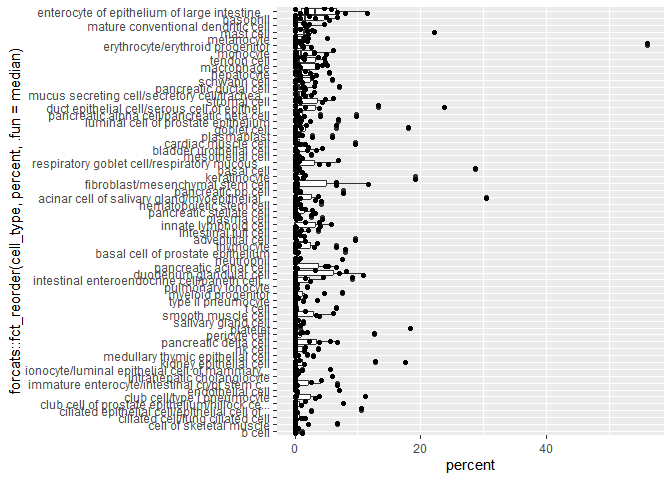
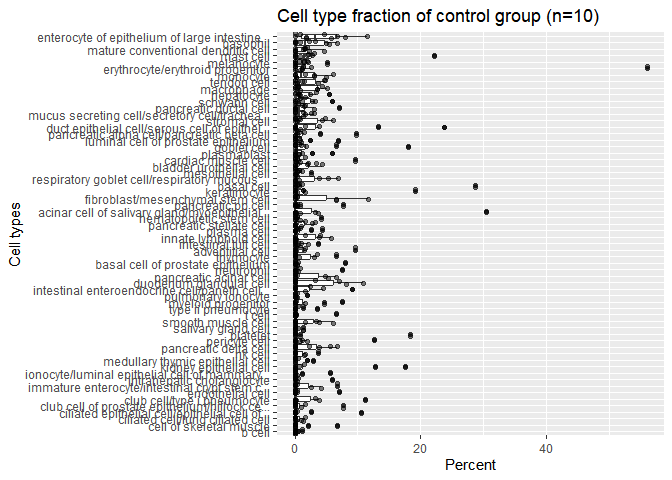
added some deconvolution stuff

diff --git a/notes/notes.md b/notes/notes.md
@@ -100,30 +100,70 @@ original pipeline which used `rsubread`.*
 
 ### Introduction
 
-Some people figured out how to extract cell-type data from RNA-seq data,
-and applied it to plasma cell-free transcriptome. This is done by
-referring to a whole body cell atlas called Tabula Sapiens. Disclaimer:
-I don’t really know anything about the math behind deconvolution and
-SVR.
+Cell-free RNA in plasma can represent a broad transcriptome of tissues
+around the body, however questions still remain about the role of the
+origin cell types of cfRNA transcripts, which can provide a lot of
+information into the pathogenesis of AD, maybe leading to a non-invasive
+way of studying AD progression.
 
-We are going to do the same thing to our data. It may or may not produce
-anything worthwhile, but let’s try anyway.
+To answer this question, Vorperian et al. used support vector regression
+to deconvolve cell types of origin from the plasma cell-free
+transcriptome. The deconvolution process is done by employing Tabula
+Sapiens, a multiple-donor whole-body cell atlas spanning 24 tissues and
+organs, to define a basis matrix whose gene set accurately and
+simultaneously resolved the distinct cell types in TSP.
 
-See reference
+They found that platelets, erythrocyte/erythroid progenitors and
+leukocytes comprised the majority of observed signal, as well as
+observing distinct transcriptional contributions from solid
+tissue-specific cell types from the intestine, liver, lungs, pancreas,
+heart, and kidney.
+
+We are going to do the same thing to our collected cfRNA data to see if
+there is anything interesting. Is there a difference between the cell
+type fractions of control and AD patients? Could these differences
+indicate any pathological process (e.g. inflammation)?
+
+See reference: Vorperian, S.K., Moufarrej, M.N., Tabula Sapiens
+Consortium. et al. Cell types of origin of the cell-free transcriptome.
+Nat Biotechnol 40, 855–861 (2022).
+<https://doi.org/10.1038/s41587-021-01188-9>
 
 ### Initial setup
 
-- Install anaconda:
-- Clone the github repository: sevahn/deconvolution
-- Create the conda environment:
+First you need to install anaconda if you haven’t done so already. If
+working with Windows, go to their website and download the installer. If
+working in WSL/Linux, go to this link and follow their instructions
+<https://conda.io/projects/conda/en/latest/user-guide/install/linux.html>
 
-The authors recommend CPM-normalized values
+Clone the github repository from the authors:
+(github.com/sevahn/deconvolution). The authors were very very nice
+people and made a tutorial on how to do this for common people like us.
+Bless them.
+
+Anyway, navigate to the `deconvolve_cfrna_tutorial` folder. Create the
+conda environment based on the yml file with something like
+`conda env create --file cfrna_deconv.yml`. It will download all the
+necessary packages like magic.
 
 ### Running the deconvolution scripts
 
-Navigate to the deconvolution tutorial folder
+First we need to prepare our cfRNA data. I have prepared a
+CPM-normalized count matrix of our data and placed it in the same
+folder.Why CPM? Because the Tabula Sapiens dataset that we are going to
+use to deconvolve uses CPM units.
 
-Edit the `sh_1.py` script file
+Don’t use log-transformed values for this (the authors say so very
+clearly and we should listen to them). Also made sure to format it so
+that **rows are genes** and **columns are samples**.
+
+Unzip the Tabula Sapiens basis matrix in the same directory that the
+authors have prepared for us. (Thanks!)
+
+Edit the `sh_1.py` script file to point to our dataset *In WSL/Linux,
+edit files from the command line by using `nano FILENAME`* Execute
+`sh_1.py` by typing `python sh_1.py`.It will spit out a .sh script file
+for every sample (We got 20 samples so we get 20 script files)
 
 Now, you can try to execute the resulting scripts, but Linux won’t let
 you do that yet. You need to set the files to be executable. This
@@ -131,11 +171,14 @@ command will set all .sh files in the folder to executable
 `chmod +x ./*.sh`
 
 We can finally run the scripts. You can execute them all at once by
-doing a for loop `for i in *.sh ; do ./$i ; done`
+doing a for loop `for i in *.sh ; do ./$i ; done` This took about 10
+minutes.
 
-Edit `merge2.py` similarly to point to the correct data files. Finally,
-run `merge2.py` to get the final fractions located in the fractions csv
-file.
+It will spit out a folder for each sample containing the data. Edit
+`merge2.py` similarly to point to the correct data files. This script
+will merge all the sample data into one convenient table. Finally, run
+`merge2.py` to get the final cell type fractions located in a fractions
+csv file.
 
 ### Preliminary deconvolution results
 
@@ -178,30 +221,88 @@ tidy_data<-VAN_fractions %>%
 ```
 
 To visualize the data, we will use possibly the greatest plotting
-package ever to be invented: ggplot2. We want to make some boxplots to
-see the full data distribution (I took a casual look at the data table
-and saw a lot of variance between samples, so I don’t want to just
-report the average).
+package ever to be invented, the swiss army knife of plotting:
+**ggplot2**. We want to make some boxplots to see the full data
+distribution . It would be tempting to make a pie chart, but I took a
+casual look at the data table and saw a lot of variance between samples,
+so reporting just the mean would be horribly misleading. We will
+separate our data into the two groups: control and AD
 
 ``` r
-ggplot(filter(tidy_data, group=="control"), aes(x=percent,y=forcats::fct_reorder(cell_type, percent, .fun = median)))+
-  geom_boxplot() + geom_jitter()+
-  scale_y_discrete(label=function(x) stringr::str_trunc(x, 46)) 
+control_plot1<-ggplot(filter(tidy_data, group=="control"), aes(x=percent,y=forcats::fct_reorder(cell_type, percent, .fun = median)))+
+  geom_boxplot() + geom_jitter(alpha=0.5)+
+  scale_y_discrete(label=function(x) stringr::str_trunc(x, 46))
+control_plot1 + labs(title="Cell type fraction of control group (n=10)",x="Percent",y="Cell types")
 ```
 
 ![](notes_files/figure-gfm/unnamed-chunk-4-1.png)<!-- -->
 
-So that is quite a mess. Let’s zoom in on the top cell types by median
-fraction.
+``` r
+ad_plot1<-ggplot(filter(tidy_data, group=="ad"), aes(x=percent,y=forcats::fct_reorder(cell_type, percent, .fun = median)))+
+  geom_boxplot() + geom_jitter(alpha=0.5)+
+  scale_y_discrete(label=function(x) stringr::str_trunc(x, 46)) 
+ad_plot1 + labs(title="Cell type fraction of AD group (n=10)",x="Percent",y="Cell types")
+```
 
-We can see that the data is extremely varied. A lot of zero datapoints.
+![](notes_files/figure-gfm/unnamed-chunk-4-2.png)<!-- -->
 
-Cool! Next step is probably to perform proper statistical analyses to
-determine if there is a statistically significant difference in
-composition between control vs. AD plasma. Also, Tabula Sapiens does not
-cover all cell types, most notably excluding brain cells. Human Protein
-Atlas (HPA) RNA consensus dataset. Or we can narrow it down using
-single-cell RNA sequencing datasets.
+That is quite a mess. Let’s make another plot where we zoom in on the
+top 15 cell types by median fraction in the cfRNA sample. *warning this
+code is pretty horrible right now, i will fix it later*
+
+``` r
+# Compute the median
+control_median <- tidy_data |>
+  filter(group=="control") |>
+  group_by(cell_type) |>
+  summarize(median_fraction=median(percent)) |>
+  arrange(median_fraction)
+
+ad_median <- tidy_data |>
+  filter(group=="ad") |>
+  group_by(cell_type) |>
+  summarize(median_fraction=median(percent)) |>
+  arrange(median_fraction)
+
+##horrifically janky code
+
+control_plot_topmed<-ggplot(filter(tidy_data,group=="control",cell_type %in% slice_max(control_median,order_by = median_fraction,n=15)$cell_type),
+                            aes(x=percent,y=forcats::fct_reorder(cell_type, percent, .fun = median)))+
+  geom_boxplot() + geom_jitter(alpha=0.5)+
+  scale_y_discrete(label=function(x) stringr::str_trunc(x, 46))
+control_plot_topmed + labs(title="Cell type fraction of control group (n=10)",x="Percent",y="Cell types")
+```
+
+![](notes_files/figure-gfm/unnamed-chunk-5-1.png)<!-- -->
+
+``` r
+ad_plot_topmed<-ggplot(filter(tidy_data,group=="ad",cell_type %in% slice_max(ad_median,order_by = median_fraction,n=15)$cell_type),                   aes(x=percent,y=forcats::fct_reorder(cell_type, percent, .fun = median)))+
+  geom_boxplot() + geom_jitter(alpha=0.5)+
+  scale_y_discrete(label=function(x) stringr::str_trunc(x, 46))
+ad_plot_topmed + labs(title="Cell type fraction of AD group (n=10)",x="Percent",y="Cell types")
+```
+
+![](notes_files/figure-gfm/unnamed-chunk-5-2.png)<!-- -->
+
+Well we can see that the data is quite noisy. A lot of samples came back
+with zero percent, and there are some high outliers. This might mean
+that our input cfRNA data is not high quality enough? (or I messed up
+something).
+
+It looks like the composition between the control and AD group is quite
+different. Of course it would be improper to conclude anything without
+some more proper statistical analyses, so that will be the next step. I
+will perform some analysis to determine if there is a statistically
+significant difference in composition between control vs. AD plasma.
+
+Once I finish processing the Toden data, I will also test the
+deconvolution on their dataset too see if it comes out better.
+
+In addition, Tabula Sapiens does not cover all cell types, most notably
+excluding brain cells. The authors also tested with the Human Protein
+Atlas (HPA) RNA consensus dataset, and narrowed it down further with
+single-cell seq datasets of specific tissue, so I should look into doing
+that next.
 
 ## Consensus co-expression network analysis
 
